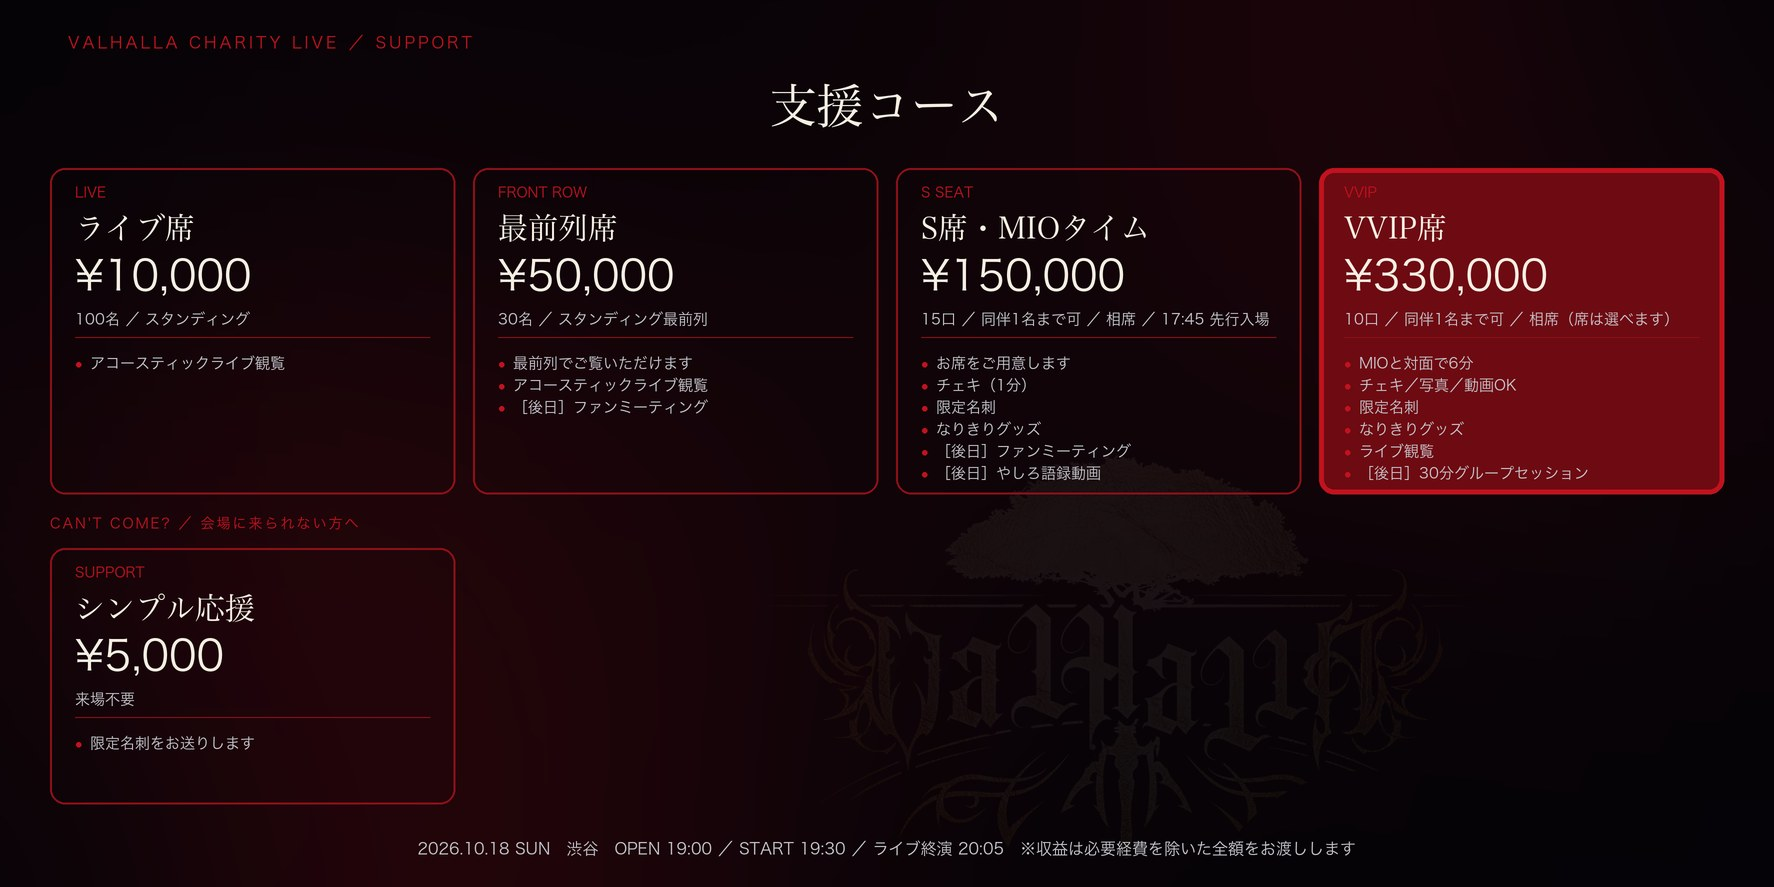
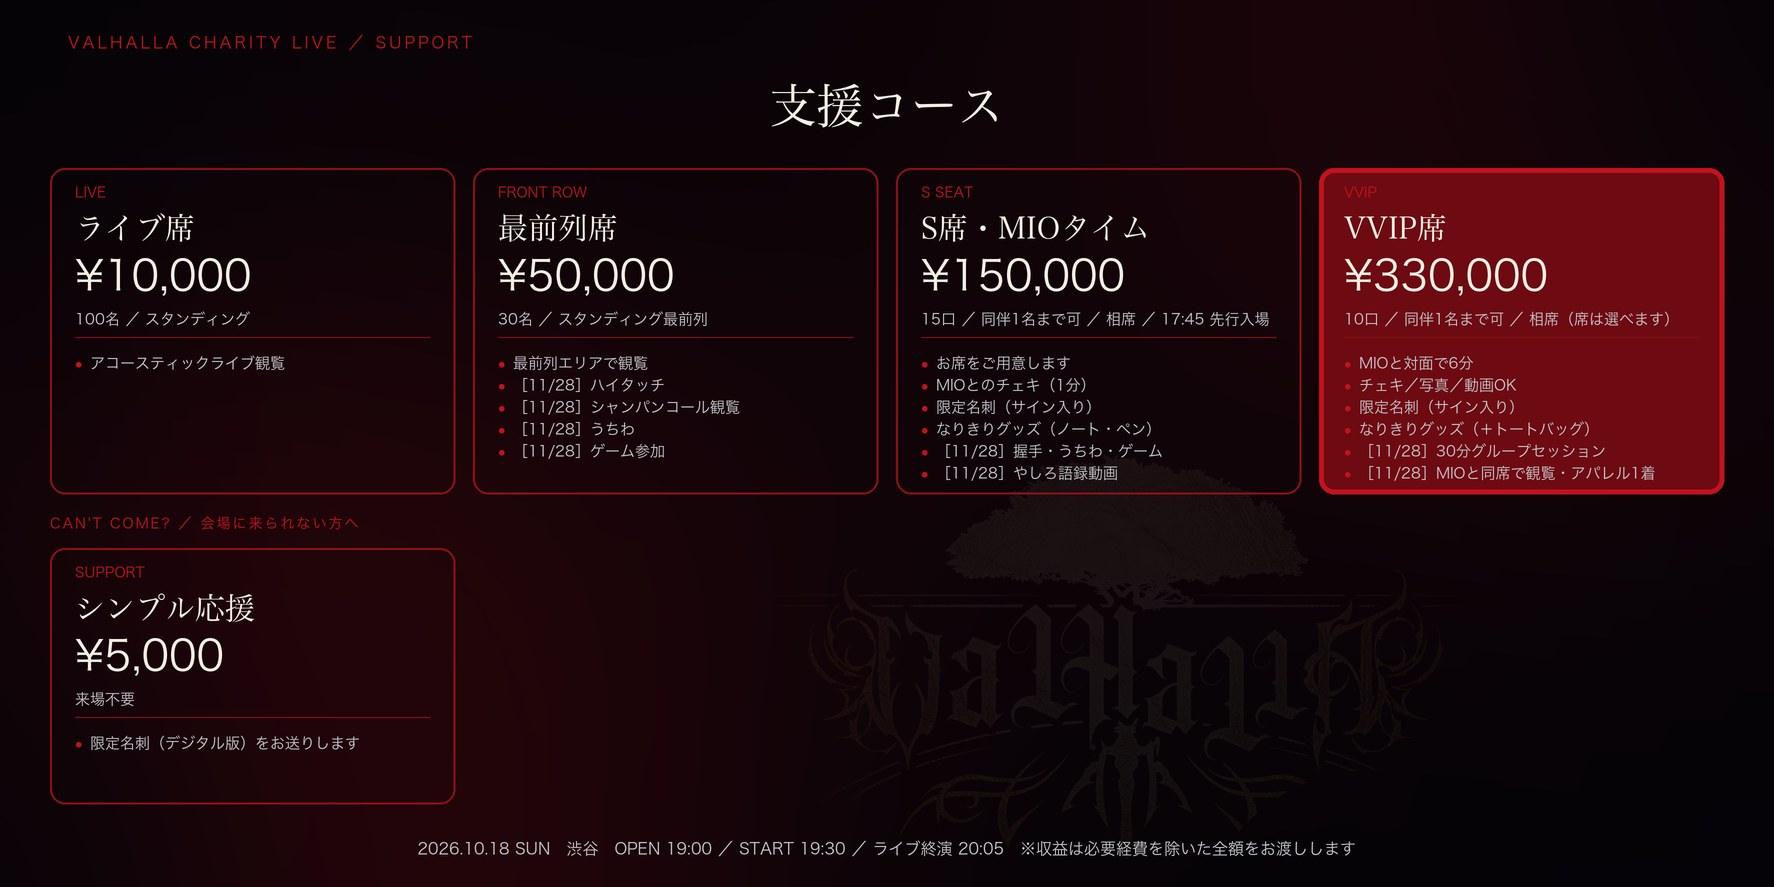
charity: the course table still showed the old returns
リターンの中身が確定したのに、支援コースの図版だけ前のままだった。
ファンミの中身を［11/28］付きで書き、限定名刺はサイン入り、
VVIP のグッズはトートバッグまで（キーホルダーは削除済み）に揃えた。

日付を入れたので、図を見ただけで当日と後日の区別がつく。

diff --git a/assets/charity/create_returns_banner.py b/assets/charity/create_returns_banner.py
@@ -181,18 +181,21 @@ def add_cards(base: Image.Image) -> None:
         ("LIVE", "ライブ席", "¥10,000", "100名 ／ スタンディング",
          ("アコースティックライブ観覧",)),
         ("FRONT ROW", "最前列席", "¥50,000", "30名 ／ スタンディング最前列",
-         ("最前列でご覧いただけます", "アコースティックライブ観覧",
-          "［後日］ファンミーティング")),
+         ("最前列エリアで観覧", "［11/28］ハイタッチ",
+          "［11/28］シャンパンコール観覧", "［11/28］うちわ",
+          "［11/28］ゲーム参加")),
         ("S SEAT", "S席・MIOタイム", "¥150,000", "15口 ／ 同伴1名まで可 ／ 相席 ／ 17:45 先行入場",
-         ("お席をご用意します", "チェキ（1分）", "限定名刺", "なりきりグッズ",
-          "［後日］ファンミーティング", "［後日］やしろ語録動画")),
+         ("お席をご用意します", "MIOとのチェキ（1分）", "限定名刺（サイン入り）",
+          "なりきりグッズ（ノート・ペン）", "［11/28］握手・うちわ・ゲーム",
+          "［11/28］やしろ語録動画")),
         ("VVIP", "VVIP席", "¥330,000", "10口 ／ 同伴1名まで可 ／ 相席（席は選べます）",
-         ("MIOと対面で6分", "チェキ／写真／動画OK", "限定名刺", "なりきりグッズ",
-          "ライブ観覧", "［後日］30分グループセッション")),
+         ("MIOと対面で6分", "チェキ／写真／動画OK", "限定名刺（サイン入り）",
+          "なりきりグッズ（＋トートバッグ）", "［11/28］30分グループセッション",
+          "［11/28］MIOと同席で観覧・アパレル1着")),
     )
     lower = (
         ("SUPPORT", "シンプル応援", "¥5,000", "来場不要",
-         ("限定名刺をお送りします",)),
+         ("限定名刺（デジタル版）をお送りします",)),
     )
     cards = upper + lower
     col = (W - margin * 2 - gap * (len(upper) - 1)) // len(upper)
